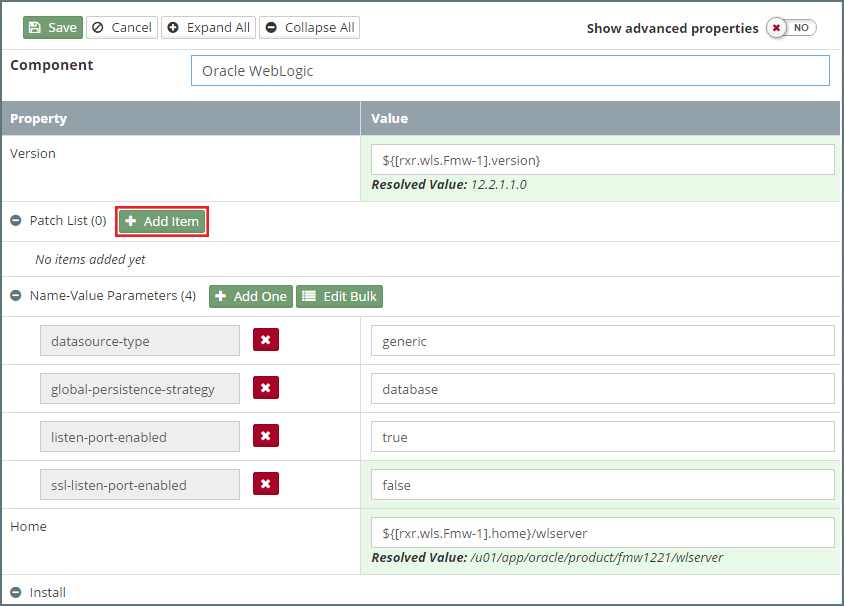
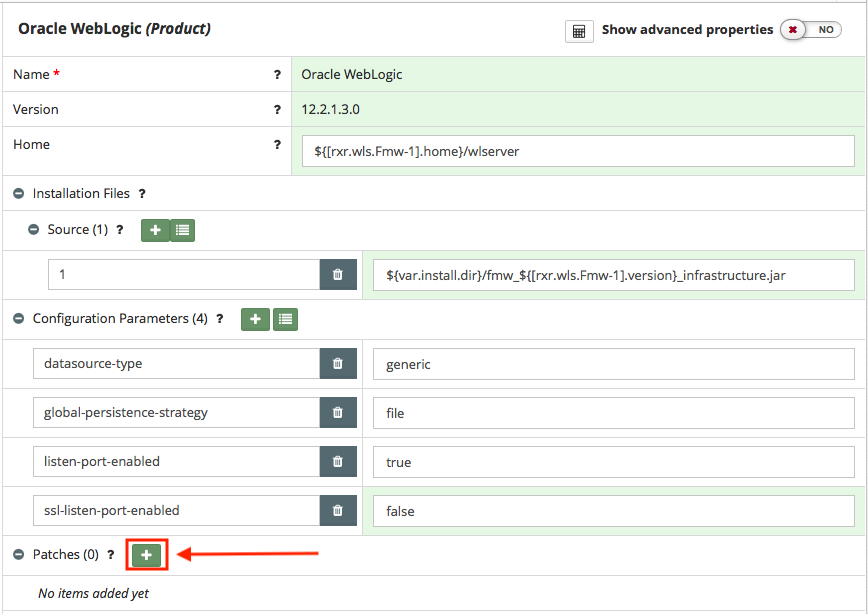
Updated patches for Platform 2.0

diff --git a/platform/resources/weblogic/patches/README.md b/platform/resources/weblogic/patches/README.md
@@ -9,37 +9,29 @@ Before MyST Studio can apply patches, they need to be first downloaded from My O
 ### Add Patch to Platform Blueprint
 How you apply a patch depends on whether you are patching an Oracle Middleware 11g or 12c instance:
 
-* **Oracle Middleware 11g** - Oracle patches are applied on a per-product basis. This means that in the MyST Studio blueprint editor, you would define the patches under the specific product being patched. 
+* **Oracle Middleware 11g** - Oracle patches are applied on a per-product basis. This means that in the MyST Studio blueprint editor, you would define the patches under the specific product being patched.
 
 * **Oracle Middleware 12c** - Oracle patches are applied globally for all of Oracle Middleware rather than on a per product basis. For that reason, in 12c, it is **recommended** to define patches under Oracle WebLogic as a convention.
 
 To add a patch to the Platform Blueprint, open the Platform Blueprint in Edit mode and navigate to `Blueprint > Products  > Oracle WebLogic`.
 
-With the `Component` in edit mode, locate the `Patch List` and click on `+ Add Item`. 
+With the `Component` in edit mode, locate the `Patches` and click on `+`.
 
 ![](img/patchAddItem.png)
 
 This will add a new `Patch` to the Patch List. For each Patch we need to specify the following properties:
 
 * **Patch Id** - The patch id provided by Oracle that identifies the patch.
-* **File** - The absolute path to the file that contains the Patch.
+* **Ensure** - Whether or not to apply or remove a patch. If left blank, it will apply the patch.
 * **Description** - Free format text field that explains the purpose of the patch
+* **File** - The absolute path to the file that contains the Patch.
 
 ![](img/patchAddPatch.png)
 
 Once done click `Save`.
 
-![](img/patchSavedPatch.png)
-
 ### Applying the Patch to a Platform Instance
-If the patch is added to the Platform Blueprint prior to provisioning the Platform Instance then the patch will be automatically applied as part of the provisioning process. 
+If the patch is added to the Platform Blueprint prior to provisioning the Platform Instance then the patch will be automatically applied as part of the provisioning process.
 
 If the Platform Instance has already been provisioned then we will need to apply the patch. For details on how to do this, see the section on [Patching a Platform Instance
  in Chapter 3.6 - Managing Platform Instances](/platform/management/README.md) for further details.
-
-
-
-
-
-
-
